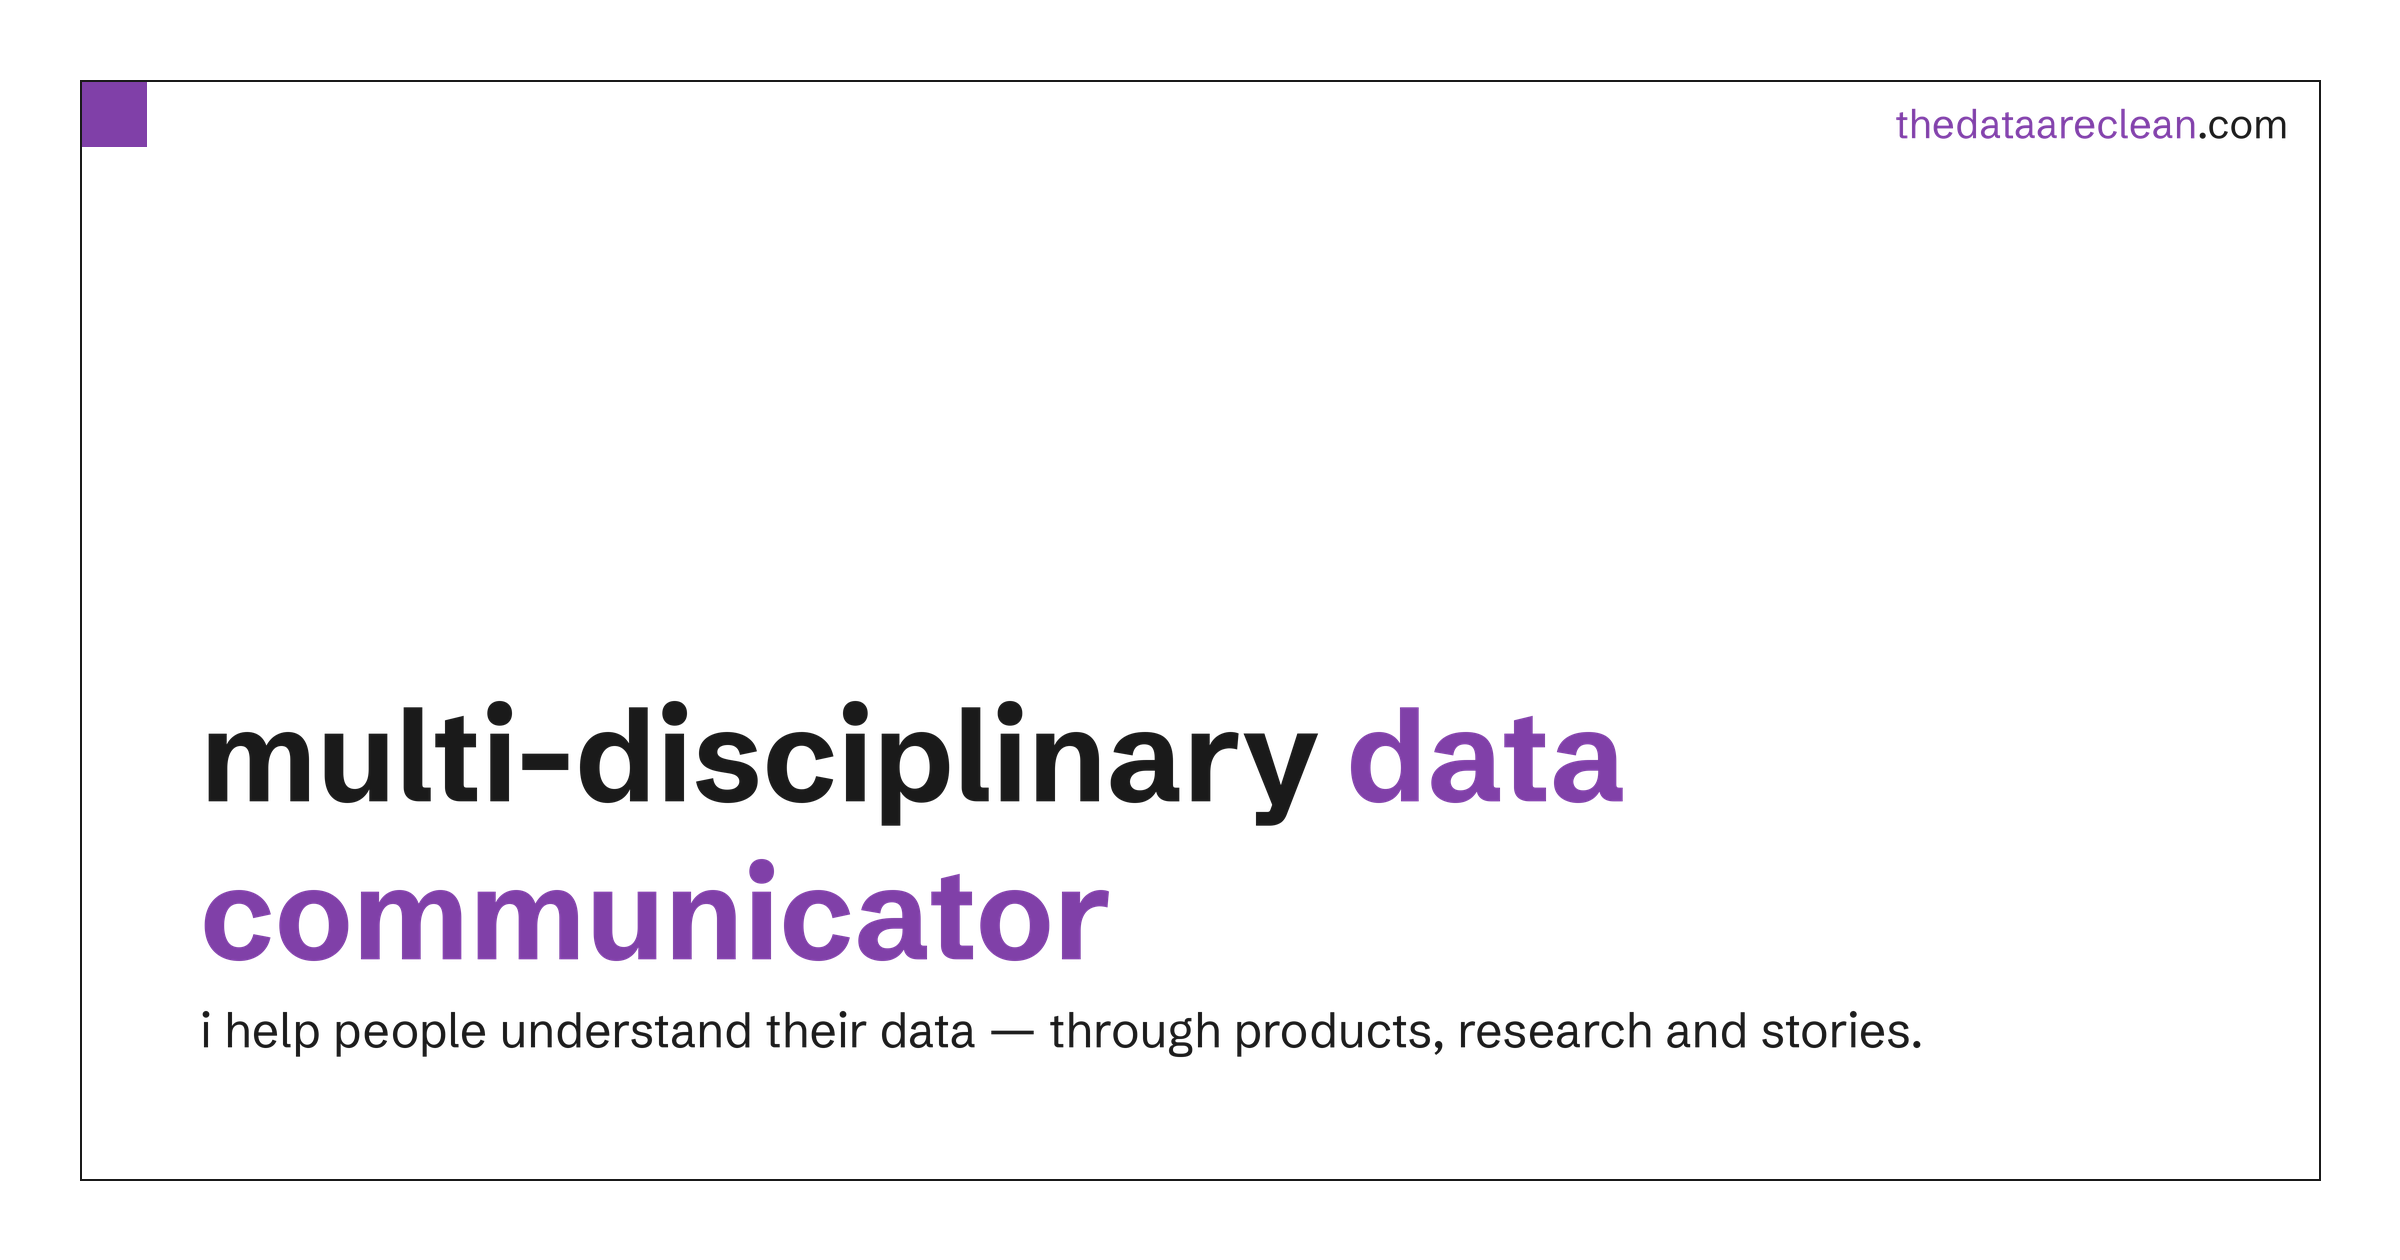
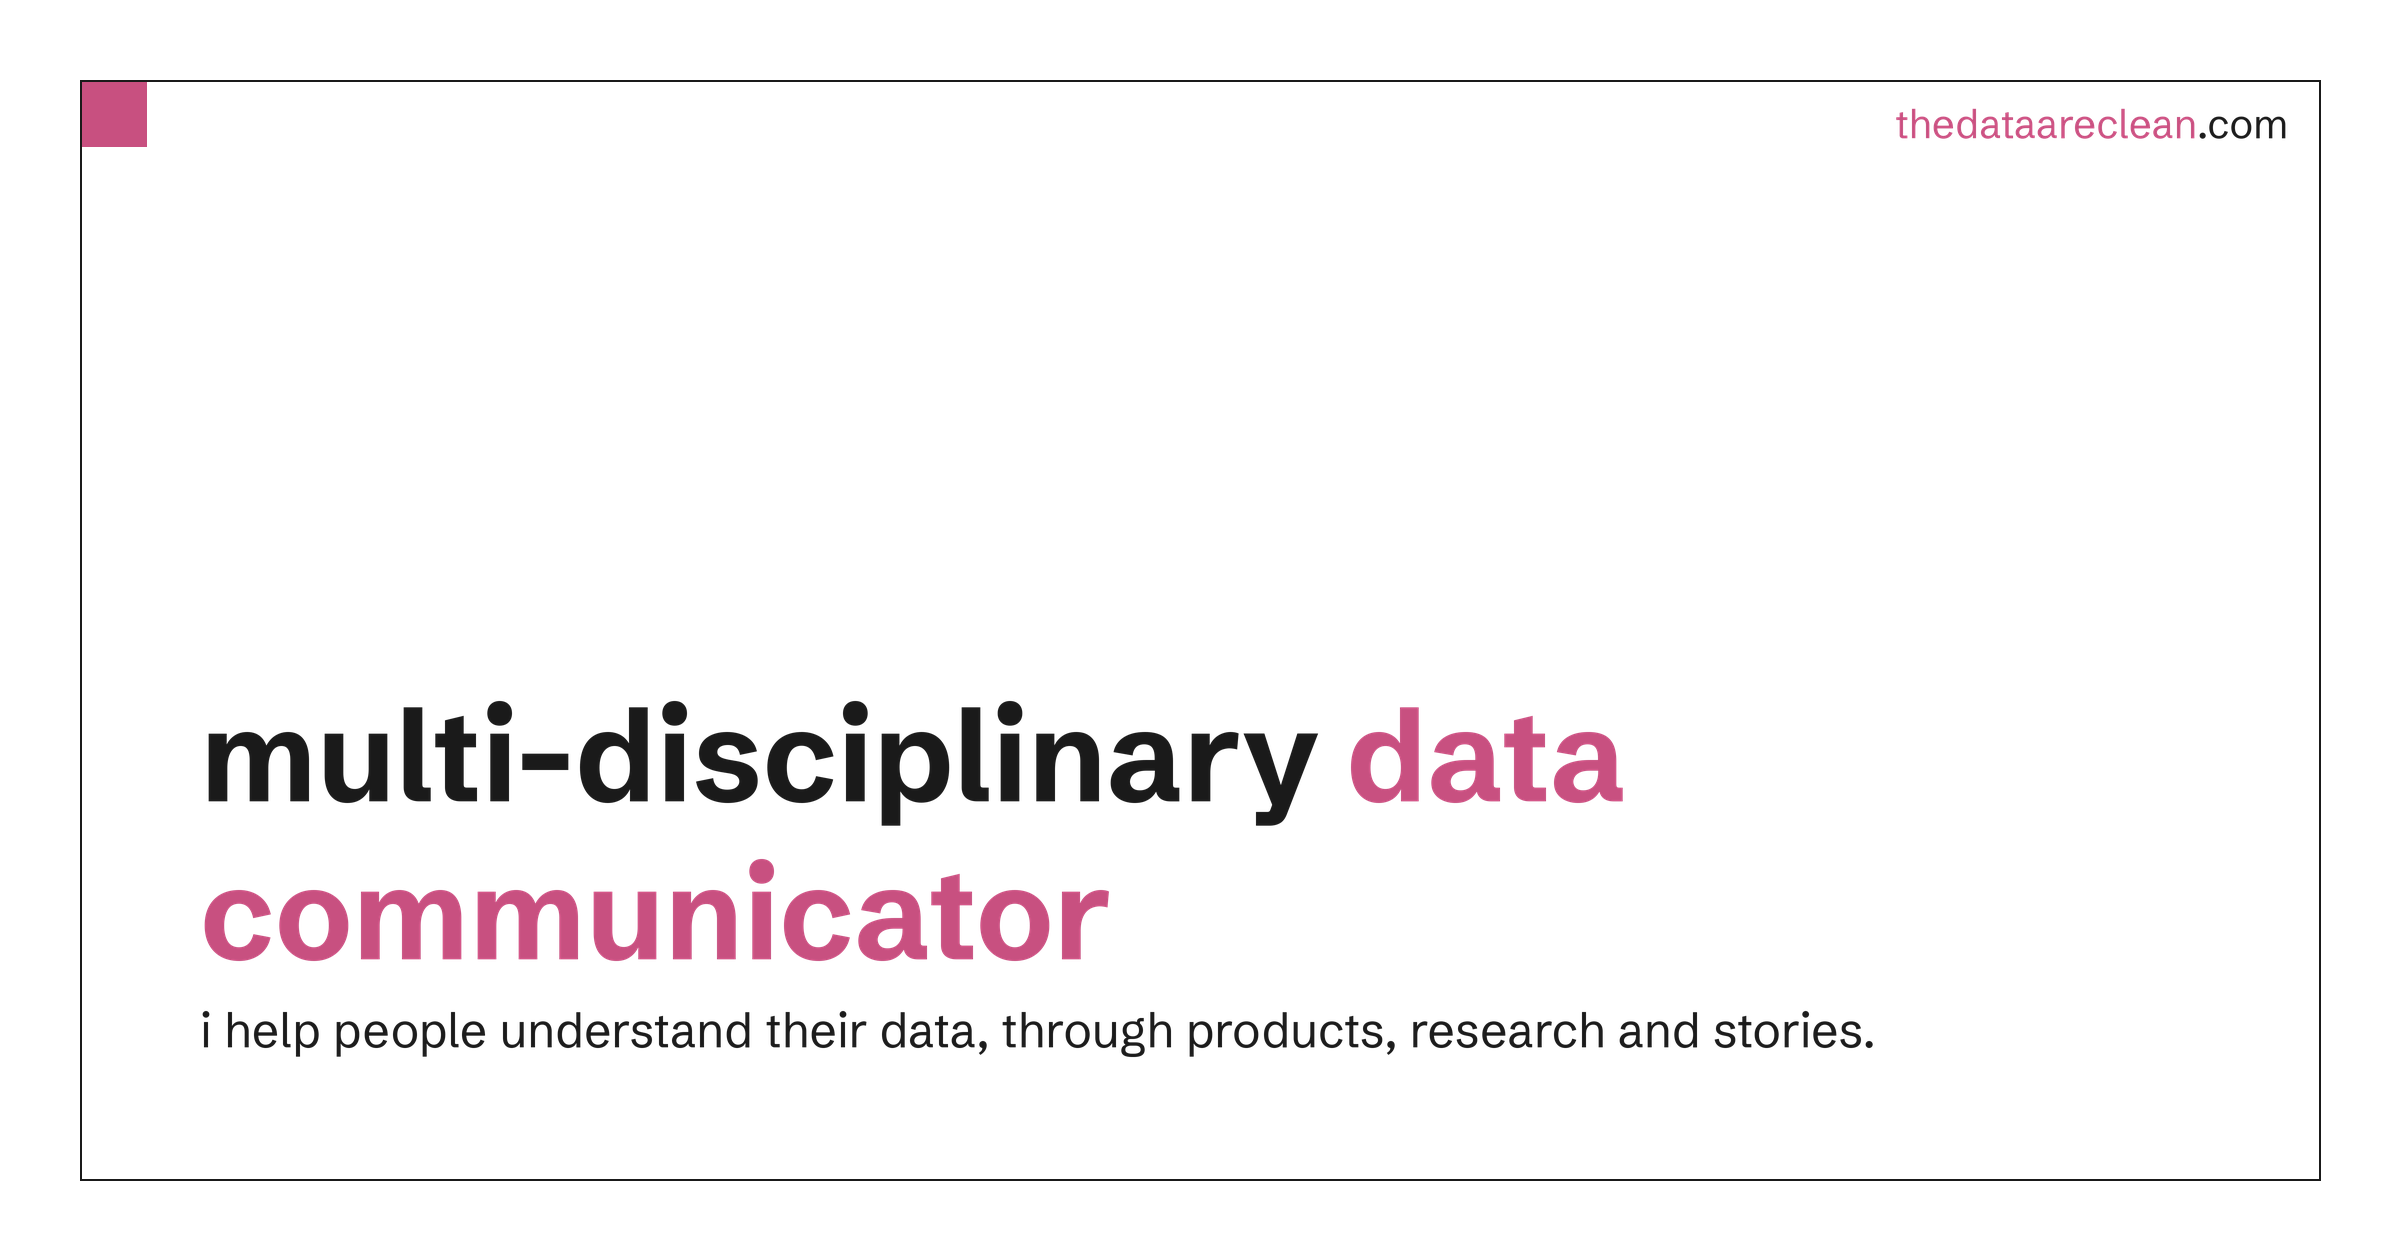
Update work page meta description and tagline
Claude-Session: https://claude.ai/code/session_01QamAT6cc52vT5jXn3raito

diff --git a/dist/work/index.html b/dist/work/index.html
@@ -5,15 +5,15 @@
   <meta name="viewport" content="width=device-width, initial-scale=1.0">
   <title>data communicator | thedataareclean</title>
   <link rel="icon" type="image/png" href="../assets/favicon.png">
-  <meta name="description" content="i help people understand their data — through products, research and stories.">
+  <meta name="description" content="i help people understand their data, through products, research and stories.">
   <meta property="og:type" content="website">
   <meta property="og:title" content="data communicator | thedataareclean">
-  <meta property="og:description" content="i help people understand their data — through products, research and stories.">
+  <meta property="og:description" content="i help people understand their data, through products, research and stories.">
   <meta property="og:url" content="https://thedataareclean.com/work/">
   <meta property="og:image" content="https://thedataareclean.com/assets/og/work.png">
   <meta name="twitter:card" content="summary_large_image">
   <meta name="twitter:title" content="data communicator | thedataareclean">
-  <meta name="twitter:description" content="i help people understand their data — through products, research and stories.">
+  <meta name="twitter:description" content="i help people understand their data, through products, research and stories.">
   <meta name="twitter:image" content="https://thedataareclean.com/assets/og/work.png">
   <link rel="preconnect" href="https://fonts.googleapis.com">
   <link rel="preconnect" href="https://fonts.gstatic.com" crossorigin>

diff --git a/content/meta.md b/content/meta.md
@@ -8,9 +8,9 @@
 
 ## work
 - title: data communicator | thedataareclean
-- description: i help people understand their data — through products, research and stories.
+- description: i help people understand their data, through products, research and stories.
 - heading: multi-disciplinary **data communicator**
-- tagline: i help people understand their data — through products, research and stories.
+- tagline: i help people understand their data, through products, research and stories.
 
 ## play
 - title: my playground | thedataareclean
